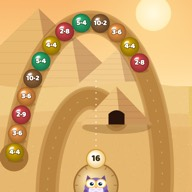
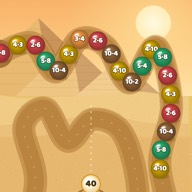
Kulbanan: slingrig bana i stället för spiral, kulstorlek efter avstånden, stjärnor efter andelen missar

diff --git a/spel/kulbanan/index.html b/spel/kulbanan/index.html
@@ -155,14 +155,25 @@ function startGame(){stopGame();loadPet();const cfg0=TABS[data.tab];
   sndIcon();last=performance.now();raf=requestAnimationFrame(loop);}
 function stopGame(){cancelAnimationFrame(raf);raf=0;if(K)K.state="stop";}
 
-/* banan: en spiral som slutar vid pyramiden nära mitten */
+/* banan: en slingrig väg runt hela planen (lärarens önskan: inte en perfekt cirkel) som slutar med en krok runt djuret.
+   Punkterna är i en ruta 0–1 och dras ut till skärmens form; mellan dem en mjuk kurva (Catmull-Rom).
+   Kulornas storlek räknas fram så att slingorna aldrig kommer för nära varandra eller djuret. */
+const BANA=[[-.08,.12],[.12,.09],[.26,.17],[.4,.08],[.56,.1],[.7,.2],[.86,.1],[.95,.26],[.88,.42],[.95,.6],[.9,.8],[.74,.92],[.58,.84],[.44,.94],[.26,.92],[.1,.84],[.06,.64],[.14,.47],[.07,.32],[.2,.27],[.33,.36],[.48,.3],[.66,.34],[.75,.5],[.7,.66],[.56,.75],[.4,.77],[.28,.66]];
+const SKYTT=[.47,.55];
+function spline(P,steps){const out=[];for(let i=0;i<P.length-1;i++){const p0=P[Math.max(0,i-1)],p1=P[i],p2=P[i+1],p3=P[Math.min(P.length-1,i+2)];
+  for(let k=0;k<steps;k++){const t=k/steps,t2=t*t,t3=t2*t;out.push([0,1].map(c=>.5*(2*p1[c]+(-p0[c]+p2[c])*t+(2*p0[c]-5*p1[c]+4*p2[c]-p3[c])*t2+(-p0[c]+3*p1[c]-3*p2[c]+p3[c])*t3)));}}
+  out.push(P[P.length-1]);return out;}
 function resize(){if(!K)return;const dpr=Math.min(2,window.devicePixelRatio||1),W=cv.clientWidth,H=cv.clientHeight;cv.width=W*dpr;cv.height=H*dpr;cx.setTransform(dpr,0,0,dpr,0,0);
-  const top=58,ax=W/2-Math.max(26,W*.05),ay=(H-top)/2-26,cX=W/2,cY=top+(H-top)/2+6;
-  const turns=1.32,rMin=.44,pts=[];
-  for(let i=0;i<=700;i++){const t=i/700,th=-Math.PI*.95+t*turns*2*Math.PI,r=1-(1-rMin)*t;pts.push([cX+ax*r*Math.cos(th),cY+ay*r*Math.sin(th)]);}
+  const top=58,mx=Math.max(24,W*.04),my=22,bw=W-2*mx,bh=H-top-2*my,X=x=>mx+x*bw,Y=y=>top+my+y*bh;
+  const pts=spline(BANA,40).map(([x,y])=>[X(x),Y(y)]);
   const cum=[0];for(let i=1;i<pts.length;i++)cum.push(cum[i-1]+Math.hypot(pts[i][0]-pts[i-1][0],pts[i][1]-pts[i-1][1]));
-  const m=Math.min(ax,ay),d=Math.max(30,Math.min(50,m*.23));
-  const oldLen=K.path&&K.path.len;K.path={pts,cum,len:cum[cum.length-1]};K.W=W;K.H=H;K.d=d;K.sx=cX;K.sy=cY;
+  const sX=X(SKYTT[0]),sY=Y(SKYTT[1]);
+  // minsta avstånd mellan två delar av banan som ligger långt ifrån varandra längs banan, och till djuret
+  let sep=1e9,toS=1e9;const st=3;
+  for(let a=0;a<pts.length;a+=st){toS=Math.min(toS,Math.hypot(pts[a][0]-sX,pts[a][1]-sY));
+    for(let b=a+st;b<pts.length;b+=st){if(cum[b]-cum[a]<Math.PI*sep*.6&&cum[b]-cum[a]<260)continue;const dd=Math.hypot(pts[a][0]-pts[b][0],pts[a][1]-pts[b][1]);if(dd<sep)sep=dd;}}
+  const d=Math.max(26,Math.min(50,sep/1.3,toS/2.3));
+  const oldLen=K.path&&K.path.len;K.path={pts,cum,len:cum[cum.length-1]};K.W=W;K.H=H;K.d=d;K.sx=sX;K.sy=sY;
   // kulorna behåller sin del av banan när storleken ändras
   if(oldLen&&K.dOld){const f=d/K.dOld;K.balls.forEach(b=>b.s*=f);}K.dOld=d;
   bg=makeBg();}
@@ -337,7 +348,8 @@ $("snd").onclick=()=>{if(!window.Ljud)return;Ljud.set(!Ljud.on);sndIcon();if(Lju
 
 /* ---------- Slut ---------- */
 function finish(win){const k=data.tab;stopGame();
-  let st=0;if(win){st=K.misses<=2?3:K.misses<=6?2:1;const old=data.stars[k]||0;data.stars[k]=Math.max(old,st);}
+  // stjärnor efter andelen missar (slingor kan stå i vägen, därför i förhållande till kedjans längd)
+  let st=0;if(win){st=K.misses<=Math.max(2,Math.round(K.total*.1))?3:K.misses<=Math.round(K.total*.3)?2:1;const old=data.stars[k]||0;data.stars[k]=Math.max(old,st);}
   const nyttRek=K.score>(data.best[k]||0);if(nyttRek)data.best[k]=K.score;data.played=(data.played||0)+1;save();
   $("rTitle").textContent=win?"Alla kulor borta! 🎉":"Kulorna rullade in i pyramiden";
   $("rStars").innerHTML=win?starHtml(st):"";

diff --git a/CLAUDE.md b/CLAUDE.md
@@ -36,7 +36,7 @@ Publiceras med GitHub Pages på **matteportalen.github.io**. Allt språk på saj
 | `np3/` | Nationella prov åk 3 (äldre sida, patchad) | `np3-resultat` |
 | `spel/` | Spelhörnan. **På dator (från 760 px)** ser korten ut som på startsidan och Övriga ämnen (lärarens önskan): vita kort i rutnät, upp till tre i bredd, spelets färg i en lutande ikonruta (`--g`), › till höger; på mobil de färgglada breda korten som förut (`.glist`). Spelen i den här ordningen (lärarens val): **Bubbeljakten**, **Tornbygget**, **Skattjakten** (egen sida, vanligt kort, inte längre paradnummer), **Rutjakten** (egen sida `rutjakten/`, se nedan), **Kulbanan** (egen sida `spel/kulbanan/`), sedan **Memory och Dragkampen** (spel för två, märkta med 🤝; låg förut bredvid varandra som halva kort, men läraren tyckte att det blev ett skumt avbrott, så nu är de vanliga breda kort som de andra), sedan Memory (**Själv** eller **Mot en vän** på samma enhet: turas om, par ger en tur till, vännen får ett slumpat annat djur, korten får spelarens färg; inga stjärnor/rekord mot en vän, räknas i `memVs` och Spelglad), Racerbanan (se nedan), Asteroidjakten, Grodhoppet, Kiosken. **Asteroidjakten** (omgjord igen okt 2026, lärarens önskan: det blev trist när allt nollställdes och jätten alltid var rätt svar): **ett levande asteroidfält**: 6–9 stenar (fler efter hand) driver runt hela tiden, studsar mot kanterna och mot varandra; rätt sten sprängs, nästa uppgift kommer direkt och en ny sten flyger in från kanten; svaret finns alltid i fältet (helst ett som redan driver omkring); störtalen är uppgiftens andra svarsalternativ. **Svaret syns alltid i bilden** (lärarens fynd: 4 · 5 men ingen 20-sten; nya svarsstenar kom förut in från kanten och tog flera sekunder): **uppgiften väljs efter en sten som redan syns** (upp till 400 försök med `gen()` tills svaret är ett av de synliga talen, inte samma svar två gånger i rad), så att nya stenar och pansarstenar inte avslöjar svaret (lärarens fynd: pansarstenen var nästan alltid rätt svar); bara i nödfall poppar svaret fram, och då byts samtidigt en annan sten mot en ny störsten (`aSeen`, `aNeed`). Mätt: 1–2 nya svarsstenar per ca 12 uppgifter, pansarstenar rätt svar ungefär lika ofta som andra stenar. **Lasern som riktats mot en sten flyger förbi andra stenar** (förut kunde en sten i vägen ge fel och kosta en sköld fast man tryckt rätt); SKJUT och tangenterna träffar första sten de möter. **Pansarstenar** (från 3 rätt, ca 22 % av stenarna): plåtband med nitar och gröna prickar för antal skott kvar, tål 2 skott (från 10 rätt ibland 3), "En gång till!" och sprickor vid varje träff. **Klyvstenar** (de stora, med vilket tal som helst): rätt svar = den spricker i tre mindre stenar med nya tal som glöder gult, och de tre nästa uppgifterna har sina svar bland dem (`chainQ`); alla tre i rad utan fel = **"Hela kedjan!" och en sköld tillbaka** (ersätter de gamla bitarna utan siffror). **Krockar med skeppet kostar en sköld** (lärarens val; stenarna vänder vid 85 % av höjden så att det händer då och då, ca 1 krock per halvminut; röd blinkande ring runt stenar nära skeppet). Fel sten: sköld bort, svaret visas och rätt sten lyser grönt, samma uppgift fortsätter. Ingen tidsgräns (lärarens val). Tryck på en sten = kanonen siktar och **lasern svänger mot stenen** även om den rör sig. **Skepp och meteorer från Kenneys "Space Shooter Remastered"** (CC0, `spel/bilder/rymd/`, licens i `LICENS.txt`): blått skepp (`skepp.png`) med motorlågor, elevens djur i en glasbubbla över cockpiten, skeppet lutar mot siktet; meteorer i brunt och grått (jättar `meteorBrown_big2` med orange glöd, bitarna små meteorer); den ritade stenen och skeppet finns kvar om bilderna inte laddats. **Skeppet glider i sidled** (lärarens val efter förslag; 360 grader i mitten och fritt åkande valdes bort för att det tar fokus från räknandet): pilknapparna ◀ ▶ (förut vrid) och piltangenterna flyttar skeppet för att väja; kanonen siktar själv när man trycker på en sten, SKJUT skjuter åt senaste hållet. **På dator:** ← → åker, **A och D vrider kanonen** (lärarens val, annars gick det bara att sikta med musen), mellanslag eller ↑ skjuter; tipset under spelet säger det på datorer med mus. Större spelyta (`#game.space`, upp till 900 px bred på dator). Rundan: 20 rätt. Tidigare version: djup rymd med nebulosor och en ringplanet (ritas en gång per storlek), stjärnor i tre lager som rör sig olika fort, riktiga asteroider (ljus från vänster, kratrar, mörk kant) med svaret på en **lysande skylt**, glänsande rymdskepp med vingar, motorlågor och glaskupol med djuret, laser med glöd, explosioner med ljusring, gnistor och stenbitar, skölden lyser upp runt skeppet vid fel, **röd pulserande farozon**, en **kontrollpanel** med sexkantiga knappar ur Kenneys Mobile Controls (CC0, `spel/bilder/kontroller/`): vrid ↺ ↻ (håll inne) och en bred SKJUT! med sikte och röd glöd, lila sken vid tryck, neonkant och stjärnor på panelen. **Jätteasteroider** (lärarens idé): var fjärde uppgift (från våg 4) ligger rätt svar på en större asteroid med glödande sprickor; träff = den spricker i 3 bitar utan siffror som sakta faller; skjut alla = **en sköld tillbaka** ("Skölden laddad! 🛡", annars "Alla bitar! ✨"); bitar som når zonen försvinner utan straff; nästa uppgift kommer när bitarna är borta. Combo-räknare valdes bort. **Håll inne knappar på mobil:** ingen textmarkering eller kopiera-meny i hela spelytan (`#game`). **Ugglans flygtur och Skattkartan är borttagna** (höll inte måttet); gamla stjärnor därifrån räknas fortfarande. Klistermärken för borttagna spel (Molnkungen, Skattkartans Skattjägaren 💰 och Piratkaptenen) är borttagna ur albumet. **Bubbeljakten:** bubbelskjutare där bubblorna har svar och skjutbubblan en uppgift. **Världarna** (läraren tyckte att den gamla lila miljön var tråkig): **en ny värld för varje bana**, ingen väljare (lärarens val): bana 1 🐠 Havet, 2 🌴 Djungeln, 3 🍭 Godislandet, 4 ❄ Isvärlden, 5 🌋 Vulkanön, 6 🏰 Slottet, sedan om igen (`VARLD`, `vSet(lvl)` i `bLevelStart`; bannern visar "Bana 3 · 🍭 Godislandet"). Grafik från **Kenney (CC0)**: Fish Pack, Platformer Art Deluxe/Candy/Winter, Platformer Pack Medieval, Background Elements Remastered och Animal Pack Remastered, ihopsatt till ett bildark per värld i `spel/bilder/varldar/<id>.png` (16–41 kB; `VRECT` = bildernas lägen; licens i `LICENS.txt`). Varje värld: himmel, bleka saker längre bort (tonade mot himlen, ritas en gång per storlek), mark av rutor, saker på marken (inte bakom skjutbubblan; vissa vajar eller fladdrar), djur som rör sig (fiskar simmar och flyr när bubblor spricker; djurhuvuden tittar upp bakom marken och dyker ner om det smäller nära; godis flyter uppåt; moln), partiklar (bubblor, löv, strössel, snö, glöd), extra ljus (solstrålar, norrsken, vulkan som glöder och ryker, sol), tak i världens material (jord, gräs, choklad, istappar, mörk sten, borgmur), egen färg på spelplanens glas och eget bakgrundsljud (`Ljud.ambient`: havet, djungel, godis, vintern, vulkan, slott). Elevens djur sitter i en dykarbubbla bara i Havet. Iglo, stora flaggor och lila stenbitar prövades och togs bort (såg konstiga ut). Stilla vid `prefers-reduced-motion`. Spelets regler är oförändrade. 10 bubblor i bredd, sexkantigt rutnät. Siktlinjen (med studs) visar bara ca 60 % av vägen och tonar ut, ingen markering av var bubblan landar: läraren vill att det ska vara lite av en utmaning att sikta. Rätt granne: hela gruppen med samma tal spricker (10 p/st), lösa bubblor ramlar (20 p/st). Fel: bubblan fastnar, visar sitt svar och en lapp "6 · 7 = 42". Nästa uppgift syns och kan bytas (kostar inget). Banor: 4→8 rader, 7/8/9/10/10 olika tal, 12 från bana 6 (färre i plus/minus till 10), 30 % chans att en bubbla får grannens tal (små grupper). **Bara fel kostar:** "missar kvar" 8 (bana 1–3), 7 (4–5), 6 (från 6) minskar bara när ett skott fastnar (läraren träffade rätt varje gång och fick ändå slut på skott); bonus 20 p per miss kvar. **Taket sjunker från bana 3** (var 10:e, 8:e, 8:e, sedan oftare). Från bana 3 ett slumpat mönster (pelare, kupol, V, trappa, två öar, luckor), från bana 6 även fönster och galler. **Uppgifterna väljs bara bland tal som ett riktigt skott kan nå** (`bReach`: provskjuter i alla vinklar med studs; tal som nås från minst 3 vinklar föredras). Första versionen var för lätt (läraren klarade bana 1 på fem skott). Stjärnor per räknesätt: bana 1, 3, 5 klar. **Färg per tal** (12 färger, samma tal har samma färg på hela banan). Skjutbubblan är alltid vit så att färgen aldrig avslöjar svaret. **Välja bana:** "Vilken bana vill du spela?" visar alla klarade banor (med världens ikon) och "Fortsätt på bana N"; `bubFrom` är banans nummer eller `cont` (`bubStart`). **Menyn:** havsblå rubrikruta med bubblor, rekordet och raden med de sex världarna (✓ klarade, den man kommer till markerad, 🔒 de kommande), havsstil på "Var vill du börja?" och startknappen (`#choose.bub`). **🔊/🔇 ljudknapp** uppe till höger i spelet (sidhuvudet är gömt där), samma inställning som sidhuvudets ljudknapp; slår man på ljudet startar världens bakgrundsljud igen. Sparas i `bubbel`, `bubbelRas`, `bubFrom` (börja på bana 1 eller fortsätt). Ljud `Ljud.pop`, `Ljud.shoot`. Klistermärken Bubbelpopparen och Bubbelras. **Dragkampen:** två spelare (eller en mot Roboten: Lätt, Mellan, Svår) med varsin uppgift och sifferknappsats; svaret skickas när man skrivit lika många siffror som svaret har (fel: rätt svar visas, ny uppgift). Rätt svar drar repet ett snäpp; först till 5 snäpp vinner och den andra glider ner i lerpölen i mitten. Varje spelare väljer eget räknesätt (multiplikation och division med alla tabeller). Lägen: bredvid varandra (liggande: spelare | rep | spelare; stående: repet överst) eller mitt emot (surfplatta på bordet, övre halvan vänd). Knapparna använder pointerdown så att två kan trycka samtidigt på pekskärm. Stjärnor bara mot Roboten (Lätt 1, Mellan 2, Svår 3) i `tug.robot`; `tugCfg`, `tugPlayed`, `tugHard` (klistermärket Dragkampsmästaren). Ljud `Ljud.drag`. **Tornbygget:** rätt svar gör att lyftkranen (tornkran med lång arm, elevens djur i bygghjälm i hytten, `hat:"bygg"` bara här) hämtar en tunn stålbalk (fackverk med sicksack, varje balk annan färg än den under) som gungar i kroken; eleven trycker **Släpp!** (eller på bilden). Fel svar: röd lampa, föraren skakar på huvudet, ingen balk, rätt svar visas. Fysik med **Matter.js 0.20.0** från cdnjs (MIT, laddas när spelet startar, kräver internet). Den fallande balken är fri fysik (kan glida/tippa av); landade balkar låses (höga staplar skakar annars sönder i Matter) och **balansregeln** avgör ras: tyngdpunkten av allt ovanför en balk måste ligga över den, annars släpps det loss och rasar på riktigt. Tornet gungar som varning när det lutar. Kranen gungar snabbare/bredare uppåt. **Kameran zoomar ut gradvis** (läraren tyckte att man bara såg toppen): balken minst ca 2/3 så bred, var 5:e våning en tillbakablick på hela tornet ("Titta så högt!"), slutbild med hela tornet och månen. Höjdmätare längs kanten, 3 m per våning. **Svårare (lärarens önskan, det var "sjukt lätt"):** gungningen mäts i världsenheter (`swingAmp(n)=34+2n`, `swingW(n)=2.1+.09n`); förut var den en vinkel och gav på bred skärm nästan ingen gungning (9–13 enheter mot 31 på mobil). Kranens vagn står över tornets topp (`T.trolley`), så tornet hamnar aldrig utom räckhåll. Balkarna smalnar uppåt (`bwOf(n)`: 90 → 65; grunden 150), siktlinjen visas bara på våning 1–3, bara 30 % av sidofarten följer med när balken släpps, **vindpustar från våning 10** (🌬 och vita streck, knuffar balken en halv balkbredd, "Akta vinden!") och **⭐ Perfekt!** med guldgnistor när balken landar inom 4 enheter från mitten (`T.perfects`). **Manöverbordet:** knappsatsen på en mörk platta med gul-svart varningsrand, gula blanka sifferknappar, grå ⌫ och grön OK ur Kenneys **UI Pack** (CC0, `spel/bilder/kontroller/gul.png` m.fl., som `border-image` så att storleken kan variera) och en stor gul **⬇ SLÄPP!**; bara i Tornbygget (`#game.bygg`), Kiosken som delar knappsatsen ser ut som förut. Simulerat: släppa på måfå rasar runt våning 3; den som siktar noga och rättar sig når månen på mobil och dator. Tre liv (balk som ramlar av), ras = slut. Månen på 20 våningar. Stjärnor bara vid månen: 3 utan fel och utan tappad balk, 2 vid högst 3, annars 1. Rekord = flest våningar (`tower[cat].best`). **Menyn:** rubrikruta med himmel (samma färger som spelkortet), lyftkranen, månen, rekordet och en mätare mot månen (20 våningar), gul-svart varningsrand; startknappen gul-randig (`#choose.tower`).  **Racerbanan:** grafik från Kenneys "Racing Pack" (CC0) i `spel/bilder/racing/` (bilar, motorcyklar, koner, oljefläck, fat, däck, tribuner, tält, träd, stenar, asfalt-, gräs- och sandrutor). Tävling mot tre datorbilar (den långsammaste byts mot rekordspöket när rekord finns, sparat som tid per båge i `car[cat].pace`). Svaren på **bågar** över filerna; rätt ger fart, fel ger sladd och tappad fart (inga liv). Turbo när man vet svaret. **Menyn** (läraren ville ha den snyggare): överst en mörk rubrikruta med rutiga kanter, elevens bil och mynten; banvalet som fyra bildkort (underlaget som bild, en väg i mitten, ✓ på vald); garaget och filvalet som mörka "depå"-rutor med guldram på valt; färgerna som runda färgprickar (`VSW`); filvalet med små bilder av 3 och 4 filer; startknappen med rutiga kanter. Stilen gäller bara när Racerbanan är vald (`#choose.car`). **Knapparna under banan** (läraren tyckte de gamla vita såg gammeldags ut) är ett mörkt **instrumentbräde** med rutig målflaggskant och knappar ur Kenneys **Mobile Controls** (CC0) i `spel/bilder/kontroller/` (licens i `LICENS.txt`): mörka pilformade ◀ ▶ med vit pil (lyser i guld vid tryck) och en bred **TURBO** med flamma som **glöder och pulserar i guld** när turbo går att använda, lyser starkt när den är på och är släckt och grå annars (även under nedräkningen). Mellan bågarna: **hinder** (kon, oljefläck, fat, vattenpöl) som bara saktar ner, och **mynt**. Placering 1–4 ger 3/2/1/0 stjärnor; rekord = bästa tid (`car[cat].time`). Fyra **banor** att välja: Racingbanan, Skogen, Öknen, Vintervägen (`carTrack`). **Garaget:** mynt (`carCoins`) köper fordon (Sportbilen gratis, Rallybilen 20, Klassikern 40, Pickupen 60, Racern 80, Motorcykeln 120), fem färger fritt (`carOwned`, `carSel`). Elevens djur kör bilen. Klistermärken Rattkungen, Fullt ös (vinn utan fel), Garagekungen (alla fordon). Balans (simulerad): perfekt + turbo vinner, perfekt utan turbo blir tvåa, 70 % rätt trea. | `mattespel-spel-v1` |
 | `spel/skattjakten/` | **Skattjakten** (nås från Spelhörnan): labyrint som slumpas varje gång, man ser bara en bit runt sig. Hinder (pratbubbla, 🔊) släpper förbi den som löser en textuppgift; skattkistor i återvändsgränder; skattkammare. **Affären och nyckeln** (barnen tyckte spelet var tråkigt, skatterna gjorde inget; lärarens idé): **utgången är låst**, nyckeln köps i **🏪 affären** (en återvändsgränd ungefär en tredjedel in; man går in genom att gå mot den som hos hindren; skylten lyser i mörkret och en pil vid skärmkanten visar var den är). **Ryggsäcken rymmer 4 skatter** (fullt = resten ligger kvar i kistan). Skatterna har värde i mynt efter hur sällsynta de är (`VARDE`: nivå 1: 1–5, nivå 2: 5–25, nivå 3: 40–250). **Eleven räknar själv i affären:** sälja = summan av prislapparna, köpa = "Du har 27 mynt, nyckeln kostar 14, hur många har du kvar?"; fel ger tips. Kistornas innehåll slumpas när labyrinten skapas och priserna räknas fram ur det: nyckeln ≈ halva värdet (tak 15/90/900), **🔦 Lyktan** (ser längre), **🗺 Kartan** (visar kistor och utgången), **👟 Snabbskorna** (dubbelt så fort) 10–16 % var. Kontrollerat: mynten räcker alltid till allt. **Mynten sparas inte** mellan rundorna (lärarens val). Gamla guldmynt i högar (`amt`) används inte längre, varje skatt är en sak. **Mobilbugg rättad:** när man håller en pilknapp och går in i ett hinder dyker rutan upp under fingret; trycket när fingret lyfts gick då till knappen under ("Gå tillbaka …") och stängde rutan. Rutan tar nu bara emot tryck som **började inne i rutan** efter att den öppnades (`dlgPress`), och pilknappens upprepning stoppas när rutan öppnas. Teman Trädgården, Grottan, Vintern (rutor från Kenney.nl, CC0, i `spel/skattjakten/bilder/`), med eget bakgrundsljud (`Ljud.ambient` i `ljud.js`) och ljudknapp. Labyrinter 21/27/33 rutor. Kistor ger 1–3 blandade skatter, **olika i varje tema**: Grottan (guldmynt, guldklimp, diamant, kristall, trolldryck, guldnyckel, rubinhjärta, riddarsvärd, sällsynt kristallkula), Trädgården (honungskupa, flugsvamp, groddplanta, silvernyckel, pilbåge, ryggsäck, rubinhjärta, sällsynt guldägg), Vintern (isdiamant, frostdryck, renhorn, snögubbe, segervimpel, gran, sällsynt iskula) ur `bilder/skatter.png`, ihopsatt av Kenneys CC0-paket Pixel Platformer, Tiny Dungeon och Roguelike RPG; de flyger ur kistan och landar i skattraden. Nivå 1 (upp till 20, ett steg), 2 (upp till 100, två steg, grupper), 3 (upp till 1000, pengar, gånger, delat). 1–3 stjärnor per nivå räknas in på startsidan; klistermärken Skattjägaren, Sällsynt fynd, Skattmästaren. **Poäng:** 10 per hinder som löses direkt, 5 efter tipset; rekord per nivå och total i skattkammaren. **Svaret visas aldrig**, bara tipset (efter första felet och sedan kvar). Piltangenter/WASD, pilknappar, svep. | `mattespel-skattjakten-v1` |
-| `spel/kulbanan/` | **🔺 Kulbanan** (prototyp, kort i Spelhörnan efter Rutjakten; lärarens plan, i samma anda som det klassiska kulspelet men **egen miljö: öken med pyramider** (lärarens val), inget från originalet): en kedja glaskulor rullar längs en spiral mot en pyramid nära mitten; elevens djur står på en sandstensplatta i mitten och skjuter. **Kulorna i kedjan har uttryck (4·6), skjutkulan ett svar (24)**; **tre eller fler intill varandra med samma svar försvinner** (skjutna kulor räknas med), kedjan sluter sig och samma svar i båda ändarna av luckan drar ihop kedjan igen (kedjereaktion, poäng ×2, ×3). **Färgen följer tabellen** (första faktorn), aldrig svaret; skjutkulan är elfenbensvit med svaret. Bara svar som kan skrivas på minst två sätt (12 = 3·4 = 2·6). Skjutkulan väljs bland svar som syns i kedjan; nästa kula syns, tryck på djuret = byt. Tryck där man vill skjuta (mus siktar, ← → och mellanslag på dator). Fel ställe = kulan blir kvar i kedjan (inget straffljud); tre missar i rad ger ett tips ("24 = 3 · 8 och 4 · 6"). **Kedjans längd och fart efter banans längd** (ca 65 % av banan, hela banan på ca två minuter) så att det blir lika svårt på mobil och dator. Kulorna rullar in fort i början och saktar in nära pyramiden, vars dörr lyser rött. Paus (även när fliken göms), ljudknapp. Når kedjan pyramiden: "Försök igen". Lägen Små tabeller (2, 3, 4, 5, 10; 4 olika svar) och Alla tabeller (5 olika svar). Stjärnor vid klar bana efter missar (kulor som inte hamnade bredvid samma svar): högst 2 = 3, högst 6 = 2, annars 1; rekord = poäng. Bakgrunden ritas i canvas (himmel, sol, pyramider, dyner, palmer, fåra i sanden). Testat med en robot. **Kvar enligt planen:** extrakrafter (bromskula, frysning), fler banor, tips med tabellen. Klistermärket Pyramidräddaren. | `mattespel-kulbanan-v1` ({stars:{sma,alla}, best, tab}; i startsidans stjärnor, `snap`, `PKEYS` och `MPStjarnor`) |
+| `spel/kulbanan/` | **🔺 Kulbanan** (prototyp, kort i Spelhörnan efter Rutjakten; lärarens plan, i samma anda som det klassiska kulspelet men **egen miljö: öken med pyramider** (lärarens val), inget från originalet): en kedja glaskulor rullar längs en **slingrig väg** (lärarens önskan, först en spiral som kändes för jämn: `BANA` = punkter i en ruta 0–1 med mjuk kurva, vågor runt hela planen och en krok in mot pyramiden bredvid djuret; kulornas storlek räknas fram så att slingorna och djuret aldrig kommer för nära) mot en pyramid; elevens djur står på en sandstensplatta i mitten och skjuter. **Kulorna i kedjan har uttryck (4·6), skjutkulan ett svar (24)**; **tre eller fler intill varandra med samma svar försvinner** (skjutna kulor räknas med), kedjan sluter sig och samma svar i båda ändarna av luckan drar ihop kedjan igen (kedjereaktion, poäng ×2, ×3). **Färgen följer tabellen** (första faktorn), aldrig svaret; skjutkulan är elfenbensvit med svaret. Bara svar som kan skrivas på minst två sätt (12 = 3·4 = 2·6). Skjutkulan väljs bland svar som syns i kedjan; nästa kula syns, tryck på djuret = byt. Tryck där man vill skjuta (mus siktar, ← → och mellanslag på dator). Fel ställe = kulan blir kvar i kedjan (inget straffljud); tre missar i rad ger ett tips ("24 = 3 · 8 och 4 · 6"). **Kedjans längd och fart efter banans längd** (ca 65 % av banan, hela banan på ca två minuter) så att det blir lika svårt på mobil och dator. Kulorna rullar in fort i början och saktar in nära pyramiden, vars dörr lyser rött. Paus (även när fliken göms), ljudknapp. Når kedjan pyramiden: "Försök igen". Lägen Små tabeller (2, 3, 4, 5, 10; 4 olika svar) och Alla tabeller (5 olika svar). Stjärnor vid klar bana efter andelen missar (kulor som inte hamnade bredvid samma svar; slingor kan stå i vägen): högst 10 % = 3, högst 30 % = 2, annars 1; rekord = poäng. Bakgrunden ritas i canvas (himmel, sol, pyramider, dyner, palmer, fåra i sanden). Liggande mobil ger små kulor (26 px), stående rekommenderas. Testat med en robot. **Kvar enligt planen:** extrakrafter (bromskula, frysning), fler banor, tips med tabellen. Klistermärket Pyramidräddaren. | `mattespel-kulbanan-v1` ({stars:{sma,alla}, best, tab}; i startsidans stjärnor, `snap`, `PKEYS` och `MPStjarnor`) |
 | `ovriga/` | **Övriga ämnen** (startsida i samma stil, grön ton) med rubrikerna **📖 Svenska** (Ordgömman), **🔬 NO** (Solsystemet) och **🌍 SO** (Sverigekartan). Kort: **🔤 Ordgömman** (`ovriga/ordgomma/`, nyckel `mattespel-ordgomma-v1` = {stars, klar, antal}, finns i startsidans stjärnor, `snap`, `PKEYS` och `MPStjarnor`): **varje ordgömma genereras** (lärarens krav: inte samma få gång på gång): 12 ord (Färger 10) slumpas ur temats ordbank och läggs i → ↓ ↘ ↗ (**inga ord baklänges**, lärarens val), korsar varandra ibland, utfyllnad med svensk bokstavsfördelning. Kontroll: varje ord finns exakt en gång i alla 8 riktningar, inga ord inuti andra (SOL/SOLSKEN), inga fula ord i utfyllnaden (`FULA`). Testat: 3 000 ordgömmor utan fel, alla olika. Rutnät 12×12, Landskapen 13×13 (VÄSTERGÖTLAND). **Ingen nivåväljare** (läraren). Tio teman med ordlistor som läraren godkänt: Djur, Frukt och grönsaker, Skolan, Kroppen, Färger, Kläder, Väder och årstider (med månaderna), Landskapen, Rymden, Städer i Sverige (ord 3–12 bokstäver; tvåbokstavsord bildas för lätt av en slump). **Design:** pysselblock (rutat papper med spiral) på en **temabakgrund** (äng, picknickduk, griffeltavla, prickar, färgklickar, klädstreck, himmel, gammal karta, stjärnhimmel) med emojis runt om; temakorten på startskärmen visar samma bakgrund. Dra över ordet (rakt eller 45°, åt båda hållen) eller tryck på första och sista bokstaven; överstrykningsgult band medan man drar, rätt = **handritad dubbel kritring** i ny färg och ordet stryks i listan, fel = bandet skakar och blir rosa (inget straff). Bokstäverna i rutnät och lista med **Andika** (Google Fonts, SIL OFL, för läsinlärning), eftersom Baloos L ser ut som Ł. Tryck på ett ord i listan = uppläsning. 💡 Tips: första bokstaven i ett ord blinkar. Klart: konfetti, djuret hoppar, tid; **stjärna per tema bara utan tips** (`klar` 2 = utan tips, 1 = med tips, kortet visar "⭐ Klar" / "💡 Med tips"). **🪐 Solsystemet** (`ovriga/solsystemet/`): 3D med **three.js 0.160.0** från jsdelivr (importmap; kräver internet, annars ett vänligt meddelande). Planetytor från **Solar System Scope (CC BY 4.0)**, komprimerade, i `ovriga/solsystemet/bilder/` (källan står i ℹ). Översikt: solen med glöd, åtta planeter på **verkliga positioner för datumet** (medellängd från J2000), Saturnus ringar, Uranus på sidan, banor, namnlappar (tryck), fart med **🐢 och 🐇** i steg och en text som "1 sekund = 12 dygn" (inte Långsamt/Normalt/Snabbt: läraren påpekade att "Normalt" låter som verklig fart); långsammaste steget är "1 sekund = 1 sekund, som i verkligheten", Idag, ℹ om att storlekar och avstånd inte är i skala. Tryck på en planet: kameran flyger dit och följer med, faktakort med 1–3 fakta för barn. **Tryck på jorden: jordvyn.** Kameran från sidan med solljuset (gula pilar, "☀ Solljus") från ena hållet; jorden snurrar ett varv per dygn med rätt tid på dygnet (dag/natt i egen shader, städernas ljus på nattsidan, moln, atmosfär), lutar 23,4°. Månen visar alltid samma sida mot jorden; fasen räknas från nymånen 6 jan 2000 (29,53 dygn) och stämmer med verkligheten. Ruta uppe till höger: **månen som vi ser den härifrån** (egen kamera vid jordytan, norr upp: tilltagande = höger sida upplyst), fasens namn (Nymåne, Tilltagande skära, Halvmåne (första kvarteret), Tilltagande måne, Fullmåne, Avtagande måne, Halvmåne (sista kvarteret), Avtagande skära), "Dag X av 30" och procent upplyst, plus en förklaring. Dra månen runt jorden eller använd reglaget; knapparna Ett dygn, En månad, Ett år spelar upp tiden. Bakåt i webbläsaren går från jordvyn/planeten till översikten. Bara att utforska, inga stjärnor. Direktlänk `solsystemet/#jorden` (från Rymdlabbets Månens faser) öppnar jordvyn som första steg, knappen heter då "← Rymdlabbet". **Rymdmatta:** en mjuk ljudslinga (`Ljud.rymd` i ljud.js: djupa toner, långsamma ackord Am9–Fmaj7–Cmaj7–Em7, glitter med eko) går hela tiden i 3D-solsystemet för känslan (lärarens önskan); startar vid första trycket, följer ljudknappen, stoppas när fliken göms. Översikten har alltid knappen **"← Rymdlabbet"** uppe till vänster (går bakåt om man kom från labbet, annars öppnas labbet). **🔭 Rymdlabbet** (`ovriga/rymdlabbet/`, kortet under NO som ersatte Solsystemet-kortet): läraren vill ha en **interaktiv lärmiljö som visar saker eleverna kan förstå, inga poäng, pass eller uppdrag** (rymdpass och rymduppdrag valdes bort). Överst ett **stort kort "🪐 Solsystemet i 3D"** (startport med planeterna i rad), sedan grupperna. Meny med lägen, varje läge har en förklaring med 🔊 som ändras efter vad eleven gör: **🌍 Dag och natt** (3D-jord med three.js som laddas först här; solljuset från vänster; ett gult sken med texten "Solljuset kommer härifrån" **följer med när man vrider kameran** och hamnar vid den kant där solen är ("rakt bakom dig/jorden" när den pekar mot eller från kameran), kameran snett ovanifrån; platsen Malmö/Stockholm/Kiruna med röd prick och en tjock ring på breddgraden som är **gul där det är dag och blå där det är natt**; reglage för klockan, "Spela ett dygn", datumen Idag/Midsommar/Lucia; rutan **Himlen hemma mot söder** (öster vänster, väster höger) med solens bana och läge; soluppgång och nedgång i svensk klocktid med sommartid, kontrollerat mot almanackan), **🍂 Årstiderna** (två vyer, lärarens önskan: **🌞 Runt solen** först: 3D-bild snett ovanifrån med solen i mitten, jorden (större än i verkligheten) som åker runt, **jordaxeln som alltid pekar åt samma håll, mot Polstjärnan** (lutar mot solen vid midsommar, bort vid jul), färgade årstidsbitar längs banan (vår grön, sommar gul, höst orange, vinter blå) med datumen, solstråle till jorden; en **röd knappnål utan text över Stockholm** som snurrar med jorden (textlappen "Sverige" var i vägen, men läraren vill se var vi bor); datumen ligger under jorden (på bortre sidan ovanför banan) så att de inte täcker jordgloben; **dra jorden runt banan**, kameran anpassar avståndet så att hela banan syns; den lilla rundeln ovanifrån togs bort. **🌍 Nära jorden**: samma jord som förut; jordaxeln lutar 23,4° åt ett håll som vrider sig ett varv på ett år, vid midsommar mot solen; datumreglage, 21 mars/juni/september/december, Spela ett år; liten bild ovanifrån med jordens bana; dagens längd, solhöjd mitt på dagen, midnattssol och mörkertid i Kiruna, jämförelse mellan städerna; rad om att det är tvärtom i Australien; solbanan med midsommar och jul streckade; snö på marken på vintern; "lutningen, inte avståndet"), **🌙 Månens faser** (länk till Solsystemets jordvy), **🌑 Förmörkelser** (2D ovanifrån, inte i skala: dra månen runt jorden, skuggor; mellan solen och jorden = solförmörkelse med strålkrans i rutan "Så ser det ut från jorden", bakom jorden = röd måne; annars visas månens fas; knappar Solförmörkelse/Månförmörkelse/Låt månen gå runt; förklaring om att månens bana lutar), **📏 Hur stora är de?** (planeterna, månen och solen i rätt storlek, zoomreglage och knapparna De små/Alla/Med solen, rullar i sidled i rutan, tryck på en planet: bredd, gånger jorden, hur många jordar som ryms), **🛣 Hur långt bort?** (avstånden rätt, planeterna förstorade; ⚡ ljus från solen med 1 s = 1 min eller 10 min och tid vid varje planet; Bara de inre; fotbollsjämförelsen och bilen till solen), **🔄 Ett år på varje planet** (alla startar på en linje, varv per planet, fart 10 dygn/1 månad/1 år per sekund; **Hur gammal är du?** med − och +, ålder på varje planet), **⚖ Väg dig och hoppa** (vikt med − och + (5–150 kg), kort per himlakropp med kg, gånger lättare/tyngre, gasplaneter "vi låtsas att du står på molnen", solen 837 kg men ingen kan stå där; **hoppa**: elevens djur hoppar samtidigt på jorden (30 cm) och vald himlakropp med verklig tid i luften, så att det går i slow motion på månen (182 cm)). Data från NASA; bilderna från `../solsystemet/bilder/`. **Stjärnor och universum** (tredje gruppen): **🌌 Zooma ut i universum** (reglage och knappar genom 8 steg: jorden, jorden och månen, inre solsystemet, hela solsystemet, närmaste stjärnorna med avstånd i ljusår, **Vintergatan** med "Du är här", Andromeda och grannarna, universum; tonar och zoomar mellan stegen; fakta per steg, bl.a. vad ett ljusår är), **⭐ Jättarna i rymden** (jorden, Jupiter, solen, Sirius, Sagittarius A*, Arcturus, Polstjärnan, Rigel, jordens bana, Betelgeuse, Jupiters bana, VY Canis Majoris, UY Scuti, Stephenson 2-18, Neptunus bana, M87*, TON 618): **på rad bredvid varandra** från minst till störst (lärarens önskan, inte i varandra); nya himlakroppar kommer in från höger och **kameran zoomar ut** mjukt (reglaget går genom himlakropparna, aktuell hålls ca 60 % in och ca halva bildens höjd; de små försvinner till vänster med texten "för små för att synas"); **▶ Resa genom jättarna** glider och stannar vid varje; aktuell himlakropp väljs automatiskt och visas i **inforutan** (bild, typ, bredd, avstånd, temperatur eller tyngd, "om solen var en fotboll"); stjärnorna ritas med solens yta i stjärnans färg, svarta hål med glödande gasskiva; streckade ringar för planetbanorna; storlekarna är ungefärliga. **🕳 Svarta hål** (**gummiduken**: perspektivritad duk som buktar ner; Solen, Svart hål lika tungt (samma bana långt ut, mycket djupare grop nära, lärorikt), Jättesvart hål; Släpp en planet (cirkelbana), dra på duken för att rulla en kula, 💡 Skicka ljus (strålarna böjs och fångas av hålet); **Krympmaskinen**: jorden blir ett svart hål 1,8 cm brett (vindruva), solen 6 km (liten stad)), **✨ Stjärnhimlen över Sverige** (riktiga positioner för stjärnor och stjärnbilder: Karlavagnen, Lilla björn, Kassiopeja, Orion, Sommartriangeln och klara stjärnor; mot norr eller söder, klockreglage 17–07, datum Idag/Jul/Vår/Sommar/Höst, Se himlen vrida sig runt Polstjärnan, ljust på sommarnätter), **🔥 En stjärnas liv** (två vägar: som solen: gasmoln, ny stjärna, stjärna, röd jätte, vit dvärg; jättestjärna: gasmoln, blå jätte, röd superjätte, supernova, svart hål; knappen "Hur blir ett svart hål till?" i Svarta hål leder hit). **Canvas-typsnitt:** skriv `"Baloo 2"` med citattecken i `ctx.font`, annars ignoreras hela inställningen (siffran i namnet). **🗺 Sverigekartan** (`ovriga/sverigekartan/`, inför åk 4 men för alla): Sveriges 25 landskap med **landskapsdjur, landskapsblomma och vapen**. Landsdelarna som nivåer (Götaland, Svealand, Norrland, Hela Sverige). Lägen: **Utforska** (tryck på ett landskap: vapen, namn med 🔊, landsdel, djur- och blombild, en kort fakta; "Visa namn"), **Vilket landskap?** (ett landskap lyser, 4 namn), **Hitta landskapet** (tryck på kartan; små landskap som Öland räcker att trycka nära), **Pusslet** (dra landskapen till sina streckade platser; bitarna ligger bredvid/under kartan och blir full storlek när man lyfter dem). Fel: rätt landskap lyser, förklaring, uppgiften kommer tillbaka. Efter rätt svar visas vapen, djur och blomma som minneshjälp. **📍 Sätt nålen** (lärarens idé, ligger under **Städer**): hela Sverigekartan med **landskapsgränser men utan färger, namn, sjönamn och prickar**; "Var ligger Västerås?", man trycker var som helst och en nål sätts; sedan visas staden (prick, namn, stadens landskap med kontur), en streckad linje och **hur många km från staden nålen hamnade** (kartpunkten räknas tillbaka till lat/long med Newton på anpassningen, sedan storcirkelavstånd; ≤10 km = "Mitt i prick!"). **Inom 80 km = bra** (grönt, går vidare själv; lärarens gräns), längre bort = rosa, "Över 80 km, den behöver du öva mer på" och Fortsätt; frågan kommer inte tillbaka. Stjärna med minst 8 träffar av 10, resultatet visar snittavståndet. "på Gotland/Öland", annars "i". **🏆 Stora landskapsprovet** och **🏆 Stora stadsprovet** (lärarens önskan: ett test med alla på en gång): alla 25 landskap respektive alla 31 städer en gång var på hela kartan (Hitta-läget), fel kommer inte tillbaka; resultat "24 av 25" och "Öva mer på: …"; stjärna med minst 90 % rätt (`klar.prov` bit 256/512, `stars.prov`). Spelkartan är lägre på mobil (100dvh − 250 px) så att hela Sverige syns utan att skrolla. **Städer** (växeln 🏞 Landskap / 🏙 Städer): 31 städer, de stora (Stockholm, Göteborg, Malmö, Uppsala, Västerås, Örebro, Linköping, Norrköping, Helsingborg, Jönköping, Umeå, Gävle, Sundsvall, Luleå, Kiruna, Karlstad, Östersund, Falun, Visby …) plus en i varje landskap (Sveg, Åmål, Borgholm, Uddevalla, Hudiksvall, Örnsköldsvik …); Lund togs inte med (för nära Malmö). Lägen: Utforska städerna (prickar, namn, stadens landskap med vapen, en fakta), Vilken stad? (hälften "vilken stad lyser?", hälften "i vilket landskap ligger X?"), Hitta staden (tryck på rätt prick, närmaste prick inom 26 px). Stockholm har tjock ring (huvudstad), pricken som lyser är orange och större. Lägena räknas från latitud/longitud med en andragradsanpassning till kartan (Sveriges ytterpunkter som stödpunkter); kuststäder flyttade in max 1,5 enheter. Stjärnor: en per spel och landsdel (Vilket, Hitta och stadsspelen med högst ett fel, Pusslet klart, Sätt nålen 8 av 10 nära), sex per landsdel, plus två för proven och två för älvarna. En stad blir mörk efter två rätt i rad (`stad`). Ett landskap färgas på kartan efter två rätt i rad och kan bli blekt igen vid fel (som samlingarna). **Karta:** landskapsgränserna från Sverigekarta-Landskap.svg (Lapplänning, CC BY-SA 2.5), förenklad och inlagd i sidan; sjöarna är hål (Vänern, Vättern, Mälaren har namn). **Naturkartan under** (lärarens önskan, den gamla var blek): `bilder/norden.jpg` (1570×1480, ca 240 kB) gjord av **Natural Earth (public domain)**: höjdfärger med relief, sjöar och älvar (HYP_HR_SR_OB_DR) blandat med vegetation (NE1_HR_LC_SR_W), omräknad till kartans koordinater (projektion RT90/EPSG:3021 + affin anpassning mot landskapens kust, median 0,8 enheter ≈ 2 km), Sverige i starkare färger, grannländerna dovare, sjöar blå. Skriptet ligger inte i repot; `NORDEN` i sidan = bildens läge, grannländernas konturer (streckade) och namn på länder och hav. Landskapen ritas som **genomskinliga ytor** med vita gränser ovanpå. **Bildens form följer rutan** (`fitBox`): Sverige i mitten, grannländerna fyller kanterna i stället för tomma ytor. **Spelskärmen** (omgjord, frågan var lätt att missa och halva skärmen var tom på dator): frågan **stor överst** i en vit ruta (stannar kvar högst upp när man skrollar), förloppslinje under; **kartan till vänster** i full höjd, **panelen till höger** med svarsknappar eller en "så gör du"-ruta (👆/📍/🌊/🧩), återkoppling, kortet med vapen, djur och blomma, Fortsätt och **rundans svar** (✓/✗-lappar). **Bilder** i `bilder/` (beskurna 360 px): blommor ur **Lindmans Bilder ur Nordens flora** (PD), lin ur Köhlers Medizinal-Pflanzen, mosippa ur Sturm, ölandssolvända ur Atlas der Alpenflora; fåglar ur **von Wrights Svenska fåglar** (Rawpixel-skanningar, CC BY-SA 4.0), däggdjur ur **Thorburns British mammals** (PD), Wilhelm von Wrights lodjur, Audubons fjällräv (CC BY 2.0 Rawpixel), Iconographia Zoologica (björn, älg, varg, bäver, rådjur, PD), Dürers ekoxe, von Wrights lax ur Skandinaviens fiskar; vapen från Wikimedia Commons (CC BY-SA, Leonid 2/Lokal_Profil). Målningar valdes framför emojis och foton (lärarens val). Full källförteckning i sidan ("Bilder och källor"). Landskapsblommor enligt Naturhistoriska riksmuseets Den virtuella floran, annars Wittrock. Nyckeln `mattespel-sverigekartan-v1` ({stars, klar, kan}) finns i startsidans stjärnor, `snap` och `PKEYS` och i sidhuvudets `MPStjarnor`. **🌊 Älvar** (tredje fliken, alltid hela Sverige, inga landsdelar): 13 älvar (Torne-, Kalix-, Lule-, Pite-, Skellefte-, Ume-, Ångermanälven, Indalsälven, Ljungan, Ljusnan, Dalälven, Klarälven, Göta älv) med landskap de rinner genom, var de rinner ut och en fakta. Linjer från **Natural Earth** (public domain), omräknade med samma anpassning som städerna, beskurna till Sverige (punkter nära gränsen räknas, Torneälven är gränsälv), ihopfogade så att första punkten är källan och sista mynningen. Lägen: Utforska älvarna (tryck på en älv; bred osynlig träffyta), Vilken älv? (8 frågor, en älv lyser), **Följ älven** (5 älvar: börja vid den gröna källpricken och dra längs älven, vattnet fylls på efter fingret, inom ca 28 px; framme vid 🌊 visas var den rinner ut). Stjärnor under `klar.alv`/`stars.alv` (bit 64 Vilken älv med högst ett fel, 128 Följ älven), högst 2. **Uppläsning bara med 🔊** även här. | `mattespel-sverigekartan-v1` |
 | `ovriga/europa/` | **🌍 Europakartan** (under SO i Övriga ämnen): **50 länder** ("alla som syns i Europa på Google Maps", lärarens önskan: Europas länder inkl. småstaterna och Kosovo, Ryssland, Belarus, Ukraina, Turkiet, Cypern, Georgien, Armenien, Azerbajdzjan; inte Kazakstan) med svenskt namn, **huvudstad**, språk och en fakta (`C` i sidan). Regioner som nivåer: Norden, Västeuropa, Centraleuropa, Sydeuropa, Balkan, Östeuropa och Kaukasus, samt Hela Europa. **Naturkarta** `bilder/europa.jpg` (2216×1549, ca 440 kB) gjord som Sverigekartans (Natural Earth, public domain; projektion ETRS89-LAEA/EPSG:3035, 1 enhet = 5 km); länderna i `M` (konturer, mittpunkt, huvudstadens läge, fastlandets ruta), övriga länder dovare. **Flaggor** i `flaggor/xx.svg` från **flag-icons** (MIT, Panayiotis Lipiridis). Lägen: Utforska (flagga, huvudstad, språk, region, fakta, 🔊; Visa namn, Visa huvudstäder), Vilket land?, Hitta landet, **Huvudstäder** (hälften "Vad heter huvudstaden i X?", hälften "Y är huvudstad i vilket land?" med huvudstaden som prick), **Flaggor** ("Vilket lands flagga är det här?", på mobil står flaggan i frågerutan), **🏆 Stora Europaprovet** (alla 50, stjärna vid 90 %). Samma spelskärm som Sverigekartan (stor fråga, karta och panel, rundans svar). **Små länder** (Vatikanstaten, Monaco, San Marino, Liechtenstein, Malta, Andorra, Luxemburg) har en vit ring; trycket på en ring inne i ett större land (Vatikanstaten i Rom) räknas som rätt för båda, och vid gränser vinner det mindre landet. Stjärnor: en per region och spel (högst ett fel) + provet; ett land färgas efter två rätt i rad. | `mattespel-europa-v1` ({stars, klar, kan}; i startsidans stjärnor, `snap`, `PKEYS` och `MPStjarnor`) |
 | `ovriga/varlden/` | **🌐 Världskartan** (under SO): **7 världsdelar** (Europa, Asien, Afrika, Nordamerika, Sydamerika, **Oceanien** (lärarens val, Australien nämns i faktan), Antarktis) och **5 världshav** (Stilla havet, Atlanten, Indiska oceanen, Norra ishavet, Södra ishavet; inga andra hav, lärarens val). Naturkarta `bilder/varlden.jpg` i **Equal Earth** (EPSG:8857, rätt ytor; 1 enhet = 20 km) från Natural Earth, oval form; världsdelarna ur Natural Earths länder (Ryssland väster om 59,5° Ö räknas till Europa); haven ur Natural Earths havsytor, där varje vattenruta (1°) hör till närmaste världshav. Lägen: Utforska (fakta + djurbilder för världsdelen; för haven "Här lever bland annat:" med riktiga foton: Norra ishavet isbjörn, valross, narval; Södra ishavet leopardsäl, adéliepingvin, krill; Atlanten lunnefågel, atlantlax, torsk; Stilla havet havsutter, kaliforniskt sjölejon; Indiska oceanen dugong, kvastfening; under varje havsdjur en rad om **var i havet** det lever (t.ex. lunnefågeln: norra Atlanten, Island och Norge; läraren påpekade att det annars såg ut som att den bor överallt); inget spel om havsdjur, eftersom många simmar mellan haven), Vilken världsdel?, Vilket hav?, Hitta på kartan (alla 12), Pusslet (dra världsdelarna till streckade platser; kartan får `touch-action:none` under pusslet, annars skrollar mobilen och biten flyttar sig bara en liten bit; samma i Sverigekartans pussel), **Var bor djuret?** (15 djur: lejon, giraff, zebra, flodhäst, jättepanda, tiger, orangutang, känguru, koala, lama, sengångare, bisonoxe, tvättbjörn, igelkott, kejsarpingvin; **riktiga foton, inga emojis** (lärarens krav), från Wikimedia Commons (CC BY-SA/CC BY/PD, fotograf och licens i "Bilder och källor"), beskurna 360 px i `bilder/djur/`; dra bilden till världsdelen eller tryck på den), 🏆 Stora världsprovet, **📐 Lurad av kartan?** (lärarens idé efter sajten "The true size of", eget utförande: en Google Maps-lik **Mercatorkarta** `bilder/mercator.jpg` (Natural Earth, lat −60…80); **alla länder** (242 st med svenska namn ur Natural Earth, `bilder/lander.json`, laddas först här) plus "Afrika (hela världsdelen)"; tryck på ett land eller sök (datalist) för att lyfta upp en färgad kopia och dra den; landet flyttas på jordklotet (först längs longituden, sedan längs meridianen) och ritas om, så det krymper mot ekvatorn och växer mot polerna; lista med riktig yta i km² (sfärisk yta), "här ser det X gånger så stort ut" och "A är N gånger större än B"; snabbknappar Grönland mot Afrika, Sverige till ekvatorn, Kanada mot Brasilien, Ryssland mot Afrika; valet **Vilken karta?: 🗺 Som Google Maps / 🌍 Rätt storlekar** (inte "vanlig karta", lärarens önskan) byter till Världskartans Equal Earth (projektion och invers i JS); inga stjärnor). Samma spelskärm som de andra kartorna. Stjärnor: en per läge (högst ett fel), provet vid 90 %. | `mattespel-varlden-v1` ({stars, kan}; i startsidans stjärnor, `snap`, `PKEYS` och `MPStjarnor`) |
